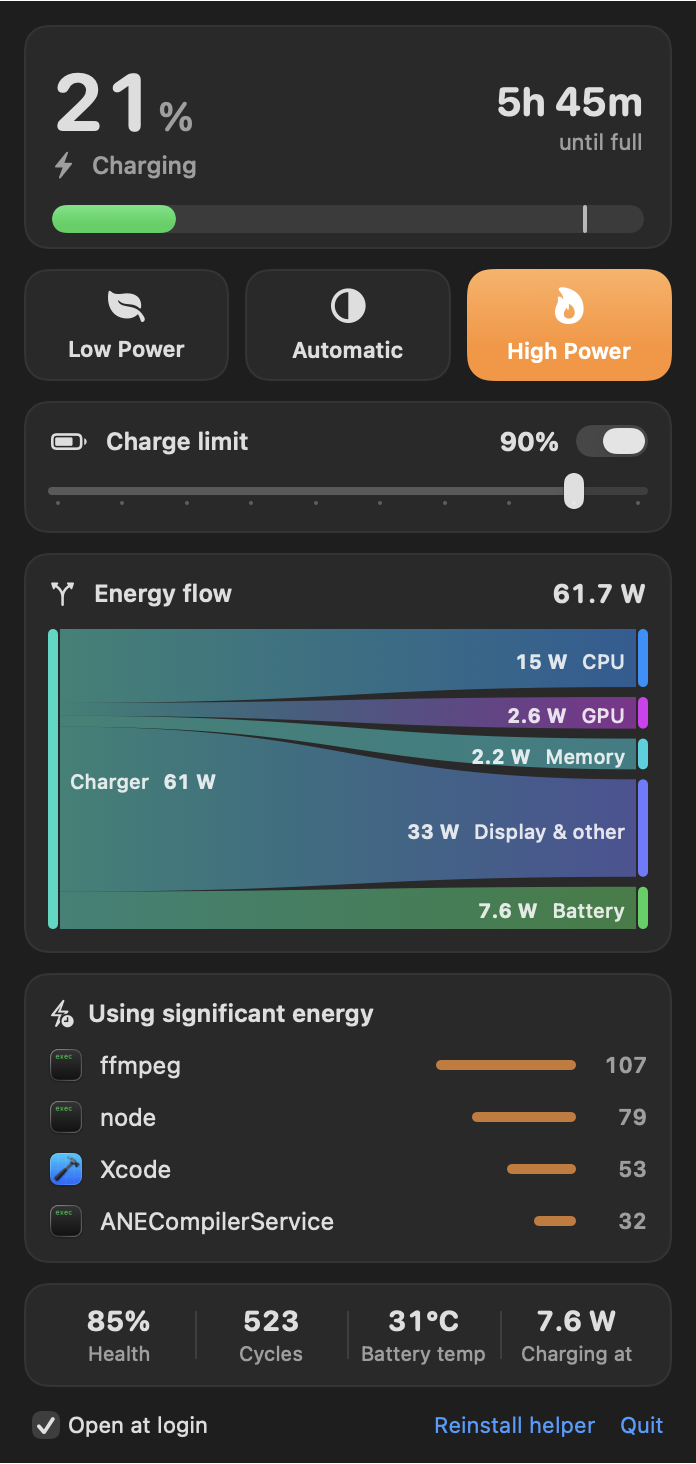
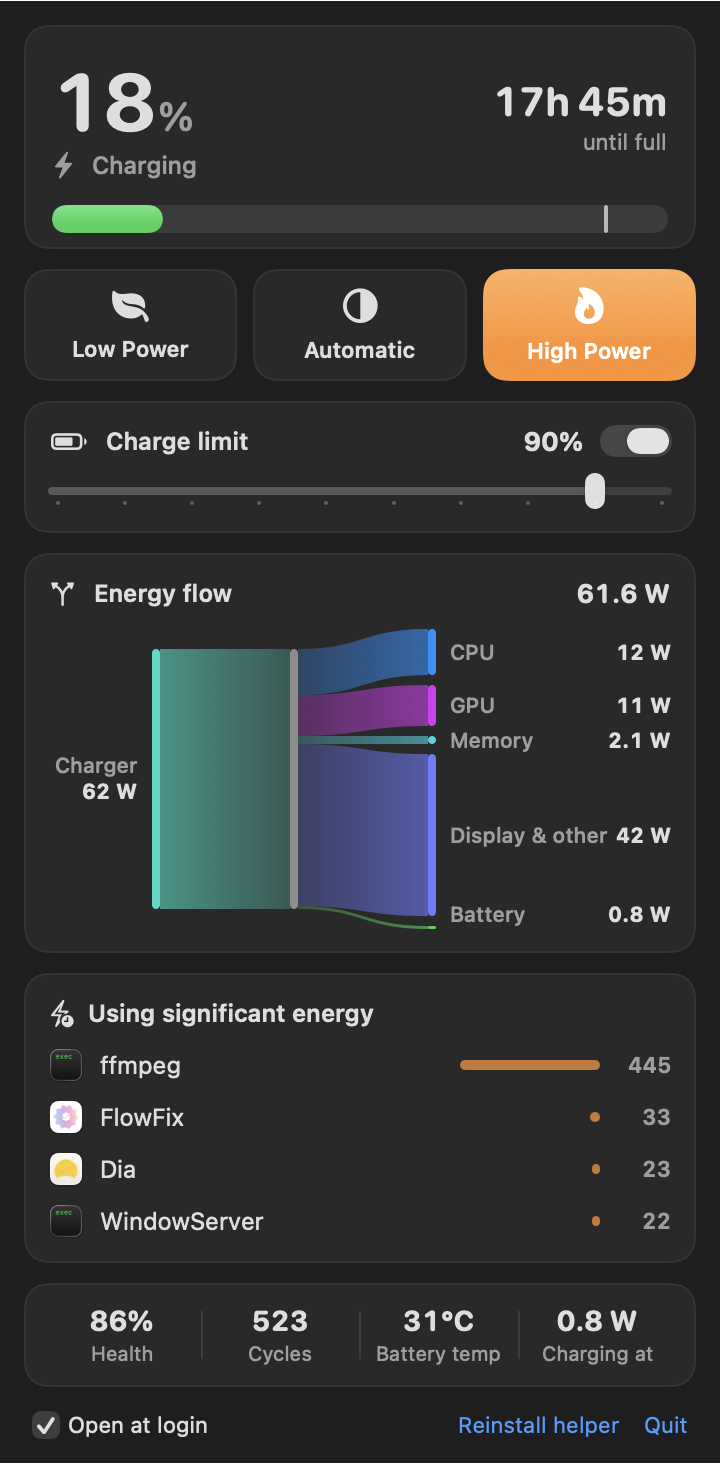
Two-stage Sankey: sources merge into a trunk, proportional heights, aligned labels, smoothed values

diff --git a/App/Juice.swift b/App/Juice.swift
@@ -22,6 +22,8 @@ final class Power: ObservableObject {
     @Published var cycles: Int?
     @Published var health: Int?
     @Published var apps: [AppUse] = []
+    @Published var flowIn: [Double] = []
+    @Published var flowOut: [Double] = []
     @Published var mode = 0            // 0 auto, 1 low, 2 high
     @Published var limit = 100
     @Published var helperInstalled = FileManager.default.fileExists(atPath: helperPath)
@@ -88,6 +90,7 @@ final class Power: ObservableObject {
             adapterW = 0
             systemW = sensorSystem > 0 ? sensorSystem : discharge
         }
+        updateFlows()
     }
 
     func readMode() {
@@ -183,29 +186,29 @@ final class Power: ObservableObject {
         StatusIcon.make(percent: percent, charging: charging, pluggedIn: onAC, mode: mode)
     }
 
-    // Sankey inputs
-    var flowSources: [Node] { [Node(name: "Charger", color: .mint), Node(name: "Battery", color: .orange)] }
-    var flowSinks: [Node] {
-        [Node(name: "CPU", color: .blue), Node(name: "GPU", color: .purple), Node(name: "Memory", color: .teal),
-         Node(name: "Display & other", color: .indigo), Node(name: "Battery", color: .green), Node(name: "Charger loss", color: .gray)]
-    }
-    var flows: [Flow] {
+    // Sankey inputs. Outputs are derived from inputs so both sides always add up to the same total,
+    // and values are smoothed so the chart doesn't twitch every refresh.
+    static let sourceNodes = [Node(name: "Charger", color: .mint), Node(name: "Battery", color: .orange)]
+    static let sinkNodes = [Node(name: "CPU", color: .blue), Node(name: "GPU", color: .purple), Node(name: "Memory", color: .teal),
+                            Node(name: "Display & other", color: .indigo), Node(name: "Battery", color: .green)]
+
+    func updateFlows() {
         let charge = max(batteryW, 0), discharge = max(-batteryW, 0)
-        let fromAdapter = onAC ? max(systemW - discharge, 0) : 0
-        let total = fromAdapter + discharge
-        guard total > 0.05 else { return [Flow(from: 0, to: 4, watts: charge), Flow(from: 0, to: 5, watts: lossW)] }
+        let adapter = onAC ? max(adapterW, 0) : 0
+        let total = adapter + discharge
+        let toBattery = min(charge, total)
+        let system = max(total - toBattery, 0)
         var comp = [parts.cpu, parts.gpu, parts.memory]
         let sum = comp.reduce(0, +)
-        if sum > total { comp = comp.map { $0 * total / sum } }
-        comp.append(max(total - comp.reduce(0, +), 0))
-        var out: [Flow] = []
-        for (i, w) in comp.enumerated() {
-            out.append(Flow(from: 0, to: i, watts: fromAdapter * w / total))
-            out.append(Flow(from: 1, to: i, watts: discharge * w / total))
+        if sum > system, sum > 0 { comp = comp.map { $0 * system / sum } }
+        let rawIn = [adapter, discharge]
+        let rawOut = comp + [max(system - comp.reduce(0, +), 0), toBattery]
+        func smooth(_ old: [Double], _ new: [Double]) -> [Double] {
+            guard old.count == new.count, old.contains(where: { $0 > 0 }) else { return new }
+            return zip(old, new).map { o, n in (n < 0.05 || o < 0.05) ? n : o + (n - o) * 0.4 }
         }
-        out.append(Flow(from: 0, to: 4, watts: charge))
-        out.append(Flow(from: 0, to: 5, watts: lossW))
-        return out
+        flowIn = smooth(flowIn, rawIn)
+        flowOut = smooth(flowOut, rawOut)
     }
 }
 
@@ -229,68 +232,86 @@ func modeColor(_ mode: Int) -> Color { mode == 1 ? .yellow : (mode == 2 ? .orang
 
 // MARK: - Sankey
 
-struct Flow { let from: Int; let to: Int; let watts: Double }
 struct Node { let name: String; let color: Color }
 
+/// Two-stage flow: sources merge into one trunk, the trunk splits into outputs.
+/// Heights are strictly proportional to watts; labels sit in fixed columns either side.
 struct Sankey: View {
-    let sources: [Node]
-    let sinks: [Node]
-    let flows: [Flow]
+    let sources: [(node: Node, watts: Double)]
+    let sinks: [(node: Node, watts: Double)]
 
     var body: some View {
         Canvas { ctx, size in
-            let barW: CGFloat = 5, gap: CGFloat = 5, minH: CGFloat = 13
-            let total = flows.reduce(0) { $0 + $1.watts }
-            guard total > 0.05 else {
+            let ins = sources.filter { $0.watts > 0.05 }, outs = sinks.filter { $0.watts > 0.05 }
+            let totalIn = ins.reduce(0) { $0 + $1.watts }, totalOut = outs.reduce(0) { $0 + $1.watts }
+            guard totalIn > 0.05, totalOut > 0.05 else {
                 ctx.draw(Text("No power flowing").font(.caption).foregroundStyle(.secondary), at: CGPoint(x: size.width / 2, y: size.height / 2))
                 return
             }
-            func totals(_ count: Int, _ key: (Flow) -> Int) -> [Double] {
-                (0..<count).map { i in flows.filter { key($0) == i }.reduce(0) { $0 + $1.watts } }
-            }
-            let srcT = totals(sources.count, { $0.from }), snkT = totals(sinks.count, { $0.to })
-            // Every visible node gets a minimum height (so its label fits) plus its proportional share.
-            func layout(_ t: [Double], x: CGFloat) -> [CGRect] {
-                let n = CGFloat(t.filter { $0 > 0.05 }.count)
-                let scale = max(size.height - gap * max(n - 1, 0) - minH * n, 0) / total
-                var y: CGFloat = 0
-                return t.map { w in
-                    guard w > 0.05 else { return .zero }
-                    let h = minH + CGFloat(w) * scale
-                    defer { y += h + gap }
-                    return CGRect(x: x, y: y, width: barW, height: h)
-                }
-            }
-            let srcR = layout(srcT, x: 0), snkR = layout(snkT, x: size.width - barW)
-            var srcOff = srcR.map { $0.minY }, snkOff = snkR.map { $0.minY }
+            let leftGutter: CGFloat = 52, rightGutter: CGFloat = 118, barW: CGFloat = 4, gap: CGFloat = 5
+            let trunkH = size.height - gap * CGFloat(max(ins.count, outs.count) - 1)
+            let trunkTop = (size.height - trunkH) / 2
+            let xL = leftGutter, xR = size.width - rightGutter - barW, xT = ((xL + xR) / 2).rounded()
 
-            for f in flows where f.watts > 0.02 && srcT[f.from] > 0.05 && snkT[f.to] > 0.05 {
-                let h0 = srcR[f.from].height * CGFloat(f.watts / srcT[f.from])
-                let h1 = snkR[f.to].height * CGFloat(f.watts / snkT[f.to])
-                let x0 = barW + 1, x1 = size.width - barW - 1, mid = (x0 + x1) / 2
-                let a = srcOff[f.from], b = snkOff[f.to]
+            func column(_ items: [(node: Node, watts: Double)], total: Double, x: CGFloat) -> [CGRect] {
+                let hs = items.map { max(CGFloat($0.watts / total) * trunkH, 1.5) }
+                var y = (size.height - hs.reduce(0, +) - gap * CGFloat(items.count - 1)) / 2
+                return hs.map { h in defer { y += h + gap }; return CGRect(x: x, y: y, width: barW, height: h) }
+            }
+            let inR = column(ins, total: totalIn, x: xL), outR = column(outs, total: totalOut, x: xR)
+
+            func band(x0: CGFloat, y0: CGFloat, h0: CGFloat, x1: CGFloat, y1: CGFloat, h1: CGFloat, color: Color, nodeOnLeft: Bool) {
+                let mid = (x0 + x1) / 2
                 var p = Path()
-                p.move(to: CGPoint(x: x0, y: a))
-                p.addCurve(to: CGPoint(x: x1, y: b), control1: CGPoint(x: mid, y: a), control2: CGPoint(x: mid, y: b))
-                p.addLine(to: CGPoint(x: x1, y: b + h1))
-                p.addCurve(to: CGPoint(x: x0, y: a + h0), control1: CGPoint(x: mid, y: b + h1), control2: CGPoint(x: mid, y: a + h0))
+                p.move(to: CGPoint(x: x0, y: y0))
+                p.addCurve(to: CGPoint(x: x1, y: y1), control1: CGPoint(x: mid, y: y0), control2: CGPoint(x: mid, y: y1))
+                p.addLine(to: CGPoint(x: x1, y: y1 + h1))
+                p.addCurve(to: CGPoint(x: x0, y: y0 + h0), control1: CGPoint(x: mid, y: y1 + h1), control2: CGPoint(x: mid, y: y0 + h0))
                 p.closeSubpath()
-                ctx.fill(p, with: .linearGradient(
-                    Gradient(colors: [sources[f.from].color.opacity(0.5), sinks[f.to].color.opacity(0.5)]),
-                    startPoint: CGPoint(x: x0, y: 0), endPoint: CGPoint(x: x1, y: 0)))
-                srcOff[f.from] += h0; snkOff[f.to] += h1
+                // Strong at the node, fading towards the trunk.
+                let strong = color.opacity(0.6), soft = color.opacity(0.28)
+                ctx.fill(p, with: .linearGradient(Gradient(colors: nodeOnLeft ? [strong, soft] : [soft, strong]),
+                                                  startPoint: CGPoint(x: x0, y: 0), endPoint: CGPoint(x: x1, y: 0)))
             }
 
-            func label(_ n: Node, _ w: Double, _ r: CGRect, leading: Bool) {
-                guard w > 0.05 else { return }
-                ctx.fill(Path(roundedRect: r, cornerRadius: 2.5), with: .color(n.color))
-                let watts = Text(String(format: w < 10 ? "%.1f W" : "%.0f W", w)).font(.system(size: 10, weight: .bold).monospacedDigit())
-                let name = Text(n.name).font(.system(size: 10, weight: .medium))
-                let t = (leading ? Text("\(name)  \(watts)") : Text("\(watts)  \(name)")).foregroundStyle(.primary)
-                ctx.draw(t, at: CGPoint(x: leading ? r.maxX + 6 : r.minX - 6, y: r.midY), anchor: leading ? .leading : .trailing)
+            var y = trunkTop
+            for (i, item) in ins.enumerated() {
+                let h = CGFloat(item.watts / totalIn) * trunkH
+                band(x0: xL + barW, y0: inR[i].minY, h0: inR[i].height, x1: xT, y1: y, h1: h, color: item.node.color, nodeOnLeft: true)
+                y += h
             }
-            for i in sources.indices { label(sources[i], srcT[i], srcR[i], leading: true) }
-            for i in sinks.indices { label(sinks[i], snkT[i], snkR[i], leading: false) }
+            y = trunkTop
+            for (i, item) in outs.enumerated() {
+                let h = CGFloat(item.watts / totalOut) * trunkH
+                band(x0: xT + barW, y0: y, h0: h, x1: xR, y1: outR[i].minY, h1: outR[i].height, color: item.node.color, nodeOnLeft: false)
+                y += h
+            }
+
+            ctx.fill(Path(roundedRect: CGRect(x: xT, y: trunkTop, width: barW, height: trunkH), cornerRadius: 2), with: .color(.primary.opacity(0.55)))
+            for (i, item) in ins.enumerated() { ctx.fill(Path(roundedRect: inR[i], cornerRadius: 2), with: .color(item.node.color)) }
+            for (i, item) in outs.enumerated() { ctx.fill(Path(roundedRect: outR[i], cornerRadius: 2), with: .color(item.node.color)) }
+
+            // Labels: keep each next to its bar, but never closer together than one line.
+            func spread(_ ys: [CGFloat], minGap: CGFloat) -> [CGFloat] {
+                var v = ys
+                let lo = minGap / 2, hi = size.height - minGap / 2
+                for i in v.indices { v[i] = max(v[i], i == 0 ? lo : v[i - 1] + minGap) }
+                for i in v.indices.reversed() { v[i] = min(v[i], i == v.count - 1 ? hi : v[i + 1] - minGap) }
+                return v
+            }
+            func watts(_ w: Double) -> String { String(format: w < 9.95 ? "%.1f W" : "%.0f W", w) }
+            let nameFont = Font.system(size: 10.5, weight: .medium), wattFont = Font.system(size: 10.5, weight: .bold).monospacedDigit()
+
+            let inY = spread(inR.map { $0.midY }, minGap: 28)
+            for (i, item) in ins.enumerated() {
+                ctx.draw(Text(item.node.name).font(nameFont).foregroundStyle(.secondary), at: CGPoint(x: xL - 7, y: inY[i] - 6.5), anchor: .trailing)
+                ctx.draw(Text(watts(item.watts)).font(wattFont).foregroundStyle(.primary), at: CGPoint(x: xL - 7, y: inY[i] + 6.5), anchor: .trailing)
+            }
+            let outY = spread(outR.map { $0.midY }, minGap: 14)
+            for (i, item) in outs.enumerated() {
+                ctx.draw(Text(item.node.name).font(nameFont).foregroundStyle(.secondary), at: CGPoint(x: xR + barW + 7, y: outY[i]), anchor: .leading)
+                ctx.draw(Text(watts(item.watts)).font(wattFont).foregroundStyle(.primary), at: CGPoint(x: size.width, y: outY[i]), anchor: .trailing)
+            }
         }
     }
 }
@@ -387,7 +408,7 @@ struct PanelView: View {
             footer
         }
         .padding(12)
-        .frame(width: 348)
+        .frame(width: 360)
         .onAppear { p.panelOpened(); syncSlider() }
         .onDisappear { p.panelClosed() }
         .onChange(of: p.limit) { if !editing { syncSlider() } }
@@ -478,10 +499,11 @@ struct PanelView: View {
                 HStack {
                     CardTitle(symbol: "arrow.triangle.branch", title: "Energy flow")
                     Spacer()
-                    Text(String(format: "%.1f W", p.onAC ? p.adapterW : p.systemW))
+                    Text(String(format: "%.1f W", p.flowIn.reduce(0, +)))
                         .font(.system(size: 13, weight: .bold, design: .rounded).monospacedDigit())
                 }
-                Sankey(sources: p.flowSources, sinks: p.flowSinks, flows: p.flows)
+                Sankey(sources: Array(zip(Power.sourceNodes, p.flowIn)).map { (node: $0.0, watts: $0.1) },
+                       sinks: Array(zip(Power.sinkNodes, p.flowOut)).map { (node: $0.0, watts: $0.1) })
                     .frame(height: 150)
             }
         }
